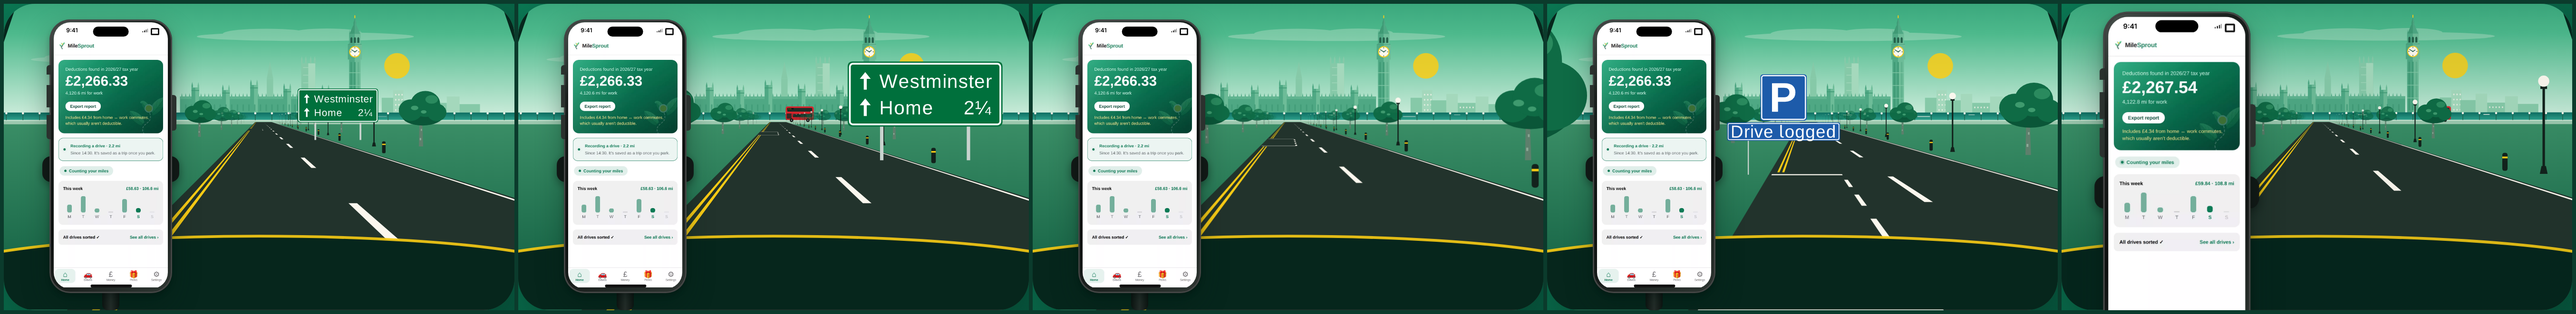
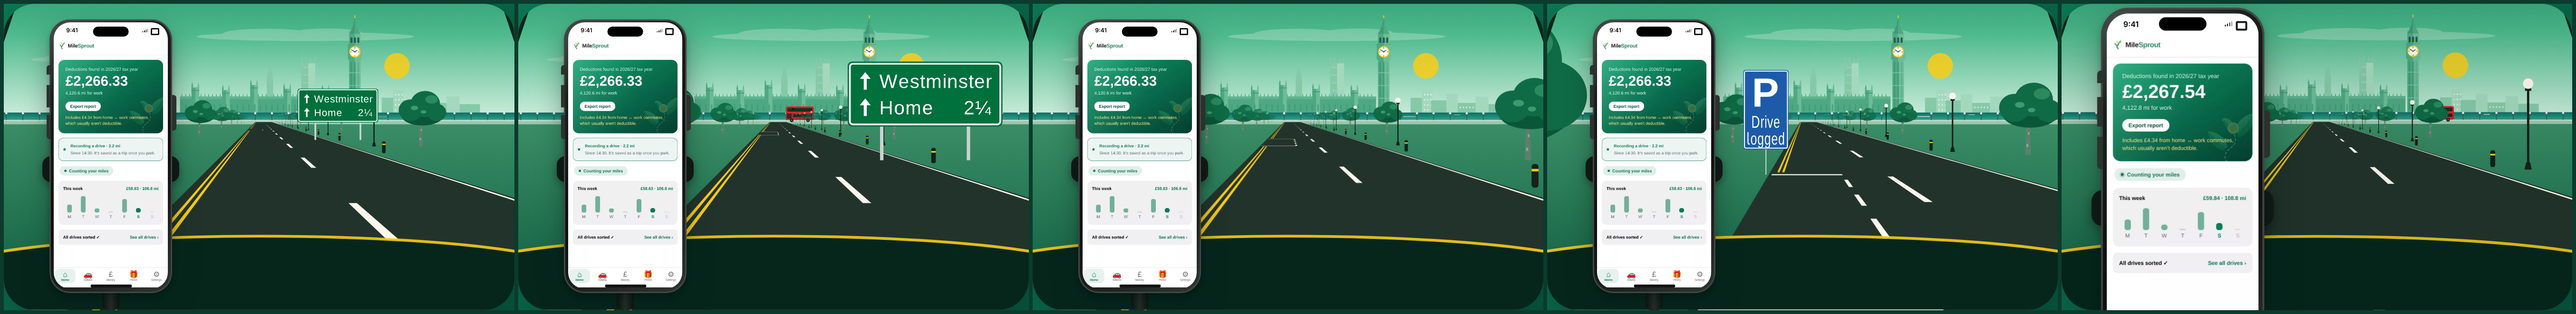
London P sign: one sign, P over a two-line plate, centred post; stills match; scene race fix
- The P panel and a 'Drive' / 'logged' plate (cap 9.4 CSS px at rest) are one blue sign the same width,
  inside one white border, on a grey post centred under it down to the kerb (desktop: the verge).
  Position, timing and fade unchanged.
- Reduce Motion stills use the same at-rest sign; the bus waits left of the P sign (by the tower).
- Scenes: the latest scene asked for wins, so a slower standard.js no longer lands over London
  (it sometimes did, most visibly under Reduce Motion).

Claude-Session: https://claude.ai/code/session_01HV35bfD7NzTSNvA32BVxeb

diff --git a/website/assets/scenes/uk-london.js b/website/assets/scenes/uk-london.js
@@ -130,17 +130,16 @@
       face += rosette(22, 20, 11, WHITE) + T('Westminster', 'uk.medium', c, 40, 20 + c / 2, WHITE);
       list.push({ w: w, h: h, face: face, world: 3.02, posts: 2 });
     })();
-    // Parked: a blue P (about 30 CSS px on a 390 px phone, at rest) over a wider one-line plate, "Drive
-    // logged" (cap height at least 9 CSS px), on a grey post at the kerb by the far end of the bay
+    // Parked: one blue sign, a P over a two-line plate ("Drive" / "logged", cap height at least 9 CSS px at rest),
+    // the same width, inside one white border; on a grey post centred under it, down to the kerb (or verge)
     var parked = (function () {
-      var w = 104, ph = 104, c = 27;
-      var face = '<rect x="0" y="0" width="' + w + '" height="' + ph + '" rx="6" fill="' + BLUE + '"/><rect x="3" y="3" width="' + (w - 6) + '" height="' + (ph - 6) + '" rx="4.5" fill="none" stroke="' + WHITE + '" stroke-width="2.6"/>';
-      face += T('P', 'uk.heavy', 64, w / 2, 84, WHITE, 'middle');
-      var pw = Math.max(w, T.width('Drive logged', 'uk.medium', c) + 16), py = ph + 4, plh = c + 14;
-      face += '<rect x="' + (w - pw) / 2 + '" y="' + py + '" width="' + pw + '" height="' + plh + '" rx="4" fill="' + BLUE + '"/><rect x="' + ((w - pw) / 2 + 2.5) + '" y="' + (py + 2.5) + '" width="' + (pw - 5) + '" height="' + (plh - 5) + '" rx="3" fill="none" stroke="' + WHITE + '" stroke-width="1.8"/>';
-      face += T('Drive logged', 'uk.medium', c, w / 2, py + 7 + c, WHITE, 'middle');
-      // its post near the plate's left end, so the whole sign stands clear of the phone on a 390 px screen
-      return { w: w, h: py + plh, face: face, world: 0.82, posts: 1, anchor: 0.12, postH: 0.6 };
+      var c = 36, sq = 0.68; // the plate's lettering, a little condensed so the P panel stays about 33 CSS px wide
+      var w = Math.max(104, Math.ceil(T.width('logged', 'uk.medium', c) * sq) + 20);
+      var line = function (str, y) { return '<g transform="translate(' + w / 2 + ' 0) scale(' + sq + ' 1) translate(' + (-w / 2) + ' 0)">' + T(str, 'uk.medium', c, w / 2, y, WHITE, 'middle') + '</g>'; };
+      var y1 = w + 2 + c, y2 = y1 + c * 1.42, h = y2 + 14;
+      var face = '<rect x="0" y="0" width="' + w + '" height="' + h + '" rx="7" fill="' + BLUE + '"/><rect x="3.5" y="3.5" width="' + (w - 7) + '" height="' + (h - 7) + '" rx="5" fill="none" stroke="' + WHITE + '" stroke-width="3"/>';
+      face += T('P', 'uk.heavy', w * 0.62, w / 2, w * 0.81, WHITE, 'middle') + line('Drive', y1) + line('logged', y2);
+      return { w: w, h: h, face: face, world: 0.8, posts: 1, postH: 0.45 };
     })();
     return { passing: list, parked: parked };
   }
@@ -171,7 +170,7 @@
     bay: { yellow: [[-0.87, -0.83], [-0.78, -0.74]], kerb: -0.95, x: 0.3, zA: 0.6, zB: 3.0 },
     // the P sign by the bay where the car stops (on wide screens across the road, clear of the phone);
     // it comes into view as the car slows (1.8 s)
-    parked: { X: -1.05, z: 3.0, wideX: 3.3, wideZ: 6, wideAnchor: 0.88, from: 1.8, fadeOut: [9.1, 9.4] },
+    parked: { X: -1.05, z: 3.0, wideX: 3.3, wideZ: 6, from: 1.8, fadeOut: [9.1, 9.4] },
     dash: 'rd-dash-w',
     templates: {
       // London plane: an irregular, wider crown in 3-4 lobes with a paler mottled patch; a pale mottled trunk
@@ -191,9 +190,9 @@
       layer: 'mid', // behind every sign, post, near tree and bollard
       markup: bus,
       // right to left along the Embankment, in front of Elizabeth Tower, while the camera is wide: from
-      // 8.6 s (the zoom easing out) to 1.2 s into the next loop; at rest it waits beside the tower
+      // 8.6 s (the zoom easing out) to 1.2 s into the next loop; at rest it waits by the tower
       at: function (t, still) {
-        if (still) return { x: 292, y: 140.8, o: 1 };
+        if (still) return { x: 248, y: 140.8, o: 1 }; // left of the tower, clear of the P sign at every width
         var k = t >= 8.6 ? (t - 8.6) / 2.2 : t < 1.2 ? (t + 1.0) / 2.2 : -1;
         if (k < 0) return null;
         return { x: 340 - 140 * k, y: 140.8, o: 1 };

diff --git a/website/assets/site.js b/website/assets/site.js
@@ -762,7 +762,7 @@
         clouds: null, cloudMarkup: cloudsG ? cloudsG.innerHTML : '', sun: sun && { cx: sun.getAttribute('cx'), cy: sun.getAttribute('cy'), r: sun.getAttribute('r') } };
       var bayG = null, bayYellow = null, bayWhite = null;
       var cur = null, curId = 'standard', sign = { list: [], parked: null }, passingEl = null, parkedEl = null, ambEl = null;
-      var loopIdx = 0, lastT = 0, cloudX = 0, depthEls = [];
+      var wanted = null, loopIdx = 0, lastT = 0, cloudX = 0, depthEls = [];
       var ctx = {
         text: SCENES.text,
         rate: function (c) {
@@ -923,7 +923,9 @@
         },
         still: function () { depthEls.forEach(function (g) { g.removeAttribute('transform'); }); if (cloudsG) cloudsG.removeAttribute('transform'); place(0, true); },
         set: function (id, instant) {
+          wanted = id; // the latest asked for wins: a slower file (standard's) never lands over a newer choice (London's)
           SCENES.load(id, function (def) {
+            if (id !== wanted) return;
             if (instant || still() || !curId || curId === id && !cur) { apply(id, def); return; }
             worldG.classList.add('is-swapping');
             setTimeout(function () { apply(id, def); worldG.classList.remove('is-swapping'); }, 150);

diff --git a/website/index.html b/website/index.html
@@ -21,7 +21,7 @@
 <link rel="stylesheet" href="/assets/site.css?v=6f393e6a">
 <script src="/assets/intro-gate.js?v=0b876a06"></script>
 <script src="/assets/season.js?v=958db9cd" defer></script>
-<script src="/assets/site.js?v=3fe7fa57" defer></script>
+<script src="/assets/site.js?v=44a0176f" defer></script>
 <noscript><style>
   /* Without JavaScript: every feature is listed, the deck is a still picture. */
   .feat { opacity: 1 !important; visibility: visible !important; transform: none !important; grid-area: auto !important; }
@@ -73,7 +73,7 @@
         </a> For iPhone, in the UK, US, Canada and Australia.</p>
       </div>
       <div class="hero-phone">
-        <figure class="scene" id="scene" data-scenes-v="54bac982">
+        <figure class="scene" id="scene" data-scenes-v="d8e668a5">
           <div class="scene-view">
             <div class="scene-pic" role="img" aria-label="A phone in a car mount while driving: the car parks, the drive (Meanwood Road to Home, 2.2 miles) appears on the MileSprout Home screen, it's swiped to Work, worth £1.21, and the year's total goes up.">
             <svg class="scene-road" viewBox="0 0 400 300" preserveAspectRatio="xMidYMax slice" aria-hidden="true" focusable="false">

diff --git a/website/testers.html b/website/testers.html
@@ -18,7 +18,7 @@
 <link rel="icon" href="/favicon-32.png" sizes="32x32" type="image/png">
 <link rel="apple-touch-icon" href="/apple-touch-icon.png">
 <link rel="stylesheet" href="/assets/site.css?v=6f393e6a">
-<script src="/assets/site.js?v=3fe7fa57" defer></script>
+<script src="/assets/site.js?v=44a0176f" defer></script>
 </head>
 <body>
 <a class="skip" href="#main">Skip to content</a>

diff --git a/website/waitlist.html b/website/waitlist.html
@@ -11,7 +11,7 @@
 <link rel="icon" href="/favicon-32.png" sizes="32x32" type="image/png">
 <link rel="apple-touch-icon" href="/apple-touch-icon.png">
 <link rel="stylesheet" href="/assets/site.css?v=6f393e6a">
-<script src="/assets/site.js?v=3fe7fa57" defer></script>
+<script src="/assets/site.js?v=44a0176f" defer></script>
 </head>
 <body>
 <a class="skip" href="#main">Skip to content</a>
